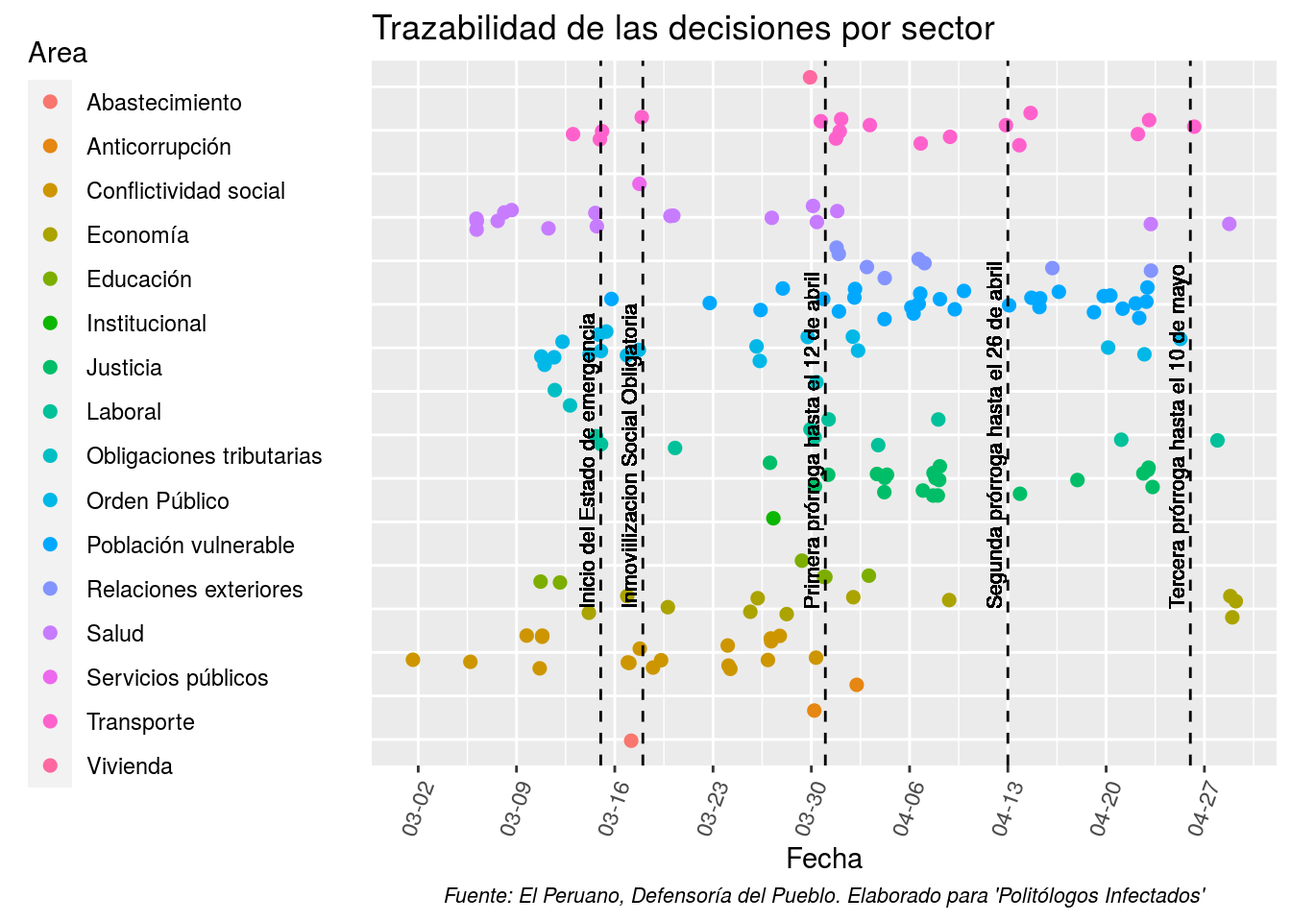
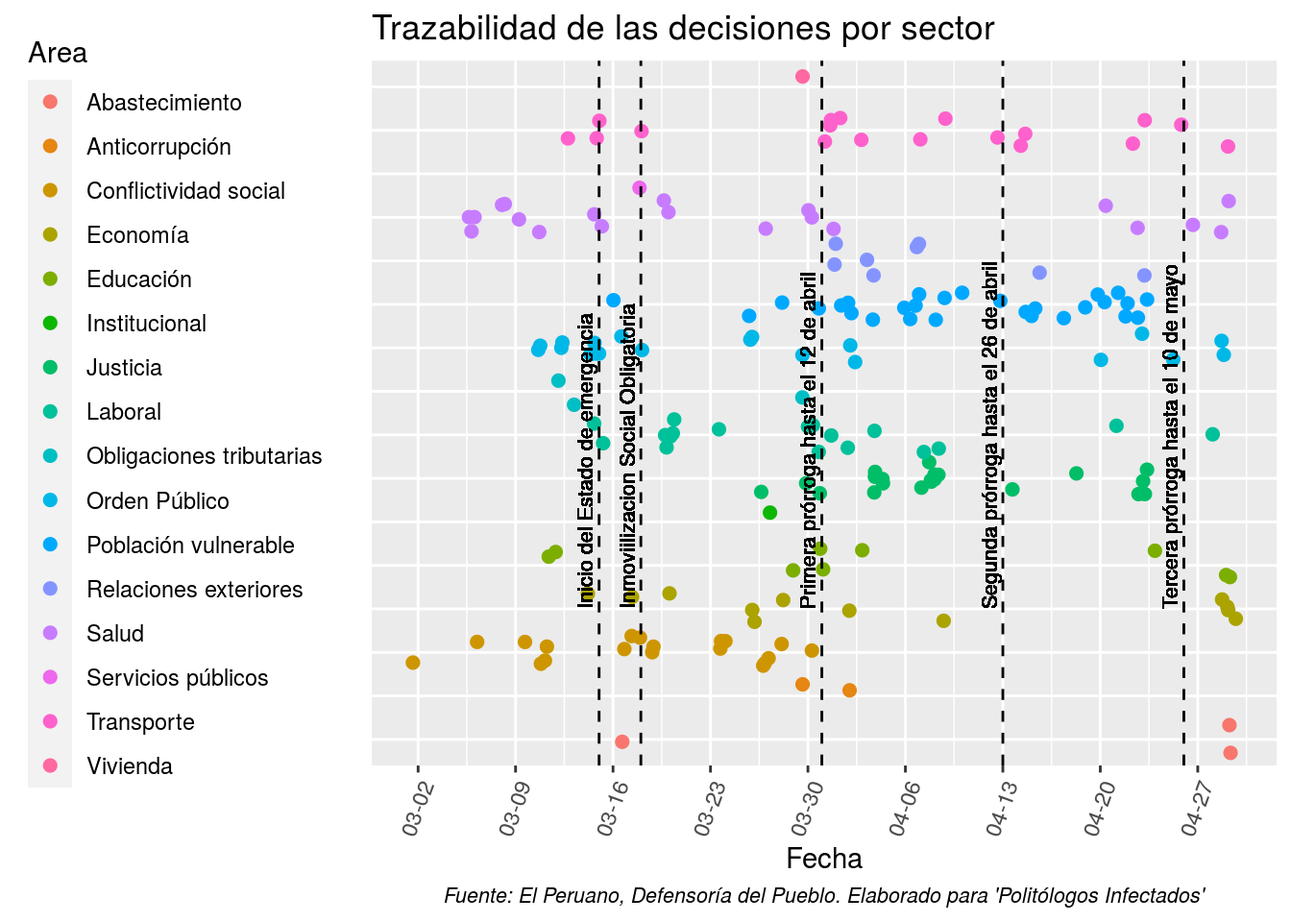
Comentarios al 30 de abril

diff --git a/nacional.html b/nacional.html
@@ -312,7 +312,7 @@ $(document).ready(function () {
 <h3>Introducción</h3>
 <p>
 <div style="text-align:justify">
-<p>El objetivo del seguimiento nacional es <em>registrar la cadena de decisiones políticas adoptadas por el gobierno nacional en el contexto de la Emergencia Nacional a causa del COVID-19</em>.</p>
+<p>El objetivo del seguimiento nacional es registrar la cadena de decisiones políticas adoptadas por el gobierno nacional en el contexto de la Emergencia Nacional a causa del COVID-19.</p>
 Este seguimiento cuenta con <strong>7 secciones</strong>: Trayectoria de las decisiones, instrumentos de politicas, redes de politicas, establecimiento de los problemas publicos, servidores de primera linea, eventos de protestas, pronunciamientos y demandas.
 </div>
 </p>
@@ -354,8 +354,8 @@ La <strong>taxonomía NATO</strong> (acrónimo de las palabras <em>nodality</em>
 <p>
 Entonces, <strong>¿Cuáles han sido los instrumentos de política puestos en práctica por el gobierno para enfrentar la crisis del COVID-19?</strong>
 </p>
-<div id="htmlwidget-484a1724447ebf3c49cb" style="width:100%;height:auto;" class="datatables html-widget"></div>
-<script type="application/json" data-for="htmlwidget-484a1724447ebf3c49cb">{"x":{"filter":"none","data":[["2020-04-29","2020-04-14","2020-04-09","2020-04-02","2020-04-02","2020-04-01","2020-03-30","2020-03-30","2020-03-29","2020-03-28","2020-03-26","2020-03-26","2020-03-26","2020-03-26","2020-03-26","2020-03-23","2020-03-20","2020-03-20","2020-03-20","2020-03-20","2020-03-18","2020-03-18","2020-03-17","2020-03-17","2020-03-17","2020-03-16","2020-03-15","2020-03-15","2020-03-15","2020-03-15","2020-03-15","2020-03-15","2020-03-15","2020-03-15","2020-03-15","2020-03-14","2020-03-14","2020-03-13","2020-03-12","2020-03-12","2020-03-12","2020-03-12","2020-03-11","2020-03-11","2020-03-09","2020-03-08","2020-03-08","2020-03-06","2020-03-06","2020-03-06"],["Economía","Justicia","Economía","Orden Público","Anticorrupción","Salud","Orden Público","Laboral","Educación","Economía","Orden Público","Orden Público","Población vulnerable","Economía","Economía","Población vulnerable","Salud","Salud","Laboral","Economía","Orden Público","Servicios públicos","Orden Público","Economía","Abastecimiento","Población vulnerable","Orden Público","Orden Público","Orden Público","Transporte","Transporte","Laboral","Laboral","Salud","Salud","Economía","Orden Público","Obligaciones tributarias","Educación","Orden Público","Orden Público","Obligaciones tributarias","Orden Público","Orden Público","Salud","Salud","Salud","Salud","Salud","Salud"],["Se habilita el retiro de un máximo de 3000 soles de la AFP","Aplicación de la conversión automática de la pena a arresto domiciliario para personas condenadas por el delito de omisión de asistencia familiar con el objetivo de reducir el hacinamiento en los centro penitenciarios y evitar contagios de COVID-19","Lanzamiento del aplicativo web que permite el seguimiento del presupuesto asignado para mitigar efectos del COVID-19","Se restringe la movilización de hombres y mujeres a días determinados, para reducir la circulación de personas. Mujeres: martes, jueves y sábados. Hombres: lunes, miércoles y viernes","Se dispone el uso obligatorio de la \"Plataforma  para la Transparencia de la Gestión Pública en la Emergencia Sanitaria COVID-19\" por parte de los gobiernos locales","Se apertura la plataforma virtual \"Perú en tus manos\"","Modificación del horario de Inmovilizacion Social Obligatoria desde las 6 pm. hasta las 5 am. a nivel nacional. Excepción de Loreto, Piura, Lambayeque y La Libertad, Tumbes donde se aplicará desde las 4 pm.","Autorización de los 2000 soles de AFP para aquellos trabajadores que no estan en planilla de los ultimos 12 meses.","Aprobación de los criterios para la supervisión de la adaptación de la educación no presencial, con caracter excepcional, en las universidades y escuelas de posgrado","Aprobación de Contrato de Fideicomiso de Administración del Fondo de Apoyo Empresarial a la MYPE","Ampliación de Estado de Emergencia por 13 dias calendarios","Registro de personas infractoras del Estado de Emergencia para derivarse al Ministerio Público","Entrega de canasta basica a familias vulnerables","Suspension del mes de abril a los aportes en AFP","Subsidio para el pago de planilla de empleadores del sector privado orientado a la preservación del empleo","Incorporación de familias independientes al Bono 380 soles","App para registro y pruebas autoaplicadas","Aumento constante de pruebas diarias aplicadas","Se establece la licencia con goce de haber compensable.","Apoyo financiero a la MYPE y financiamiento de acciones ante los efectos del COVID-19","Inmovilizacion Social Obligatorio (de 8 pm. a 5 am.)","Postergacion de pagos de servicios publicos del mes de marzo","Autorización de solicitud de pase de tránsito","Ampliación de la vigencia de los DNI caducos o próximos a caducar, para acceder a bienes y servicios","Prorrogan vigencia de títulos habilitantes en materia de licencias de conducir, servicios de transporte de personas y de carga y mercancía","Bono de 380 soles para familias en situación en situación vulnerable","Declaración de Estado de Emergencia (suspensión de derechos constitucionales)","Suspensión de acceso publico a lugares y toda actividad masiva","Cierre temporal de fronteras durante el tiempo de Estado de Emergencia","Transporte urbano reduce oferta en 50%","Restricción de transporte interprovincial (exceptuando a carga y/o mercancía)","Autorización del trabajo remoto para el sector publico y privado","Subsidio a trabajadores con COVID-19","#quedateencasa #yomequedoencasa","Reporte diarios del avance de las medidas por parte del Presidente","Amplían el alcance de la cobertura del Fondo CRECER para las Pymes","Suspensión temporal de recepción de naves crucero","Reduccion a 0% de tasa arancelaria a la importación de bienes vinculados a la Emergencia Sanitaria","Postergación o suspensión de actividades en los universidades e institutos públicos o privados ","Prohibicion de cualquier espectáculo de más de 300 personas y locales al 50% de aforo","Suspensión de vuelos a Europa y Asia por 30 dias","Aplazamiento de la declaracion de impuestos","Aislamiento domiciliario por catorce (14) días para personas provenientes de España, Italia y China","Postergación o suspensión de actividades en los centros educativos públicos o privados ","Guía para la prevención del COVID-19 en el ámbito laboral","Atención y manejo clinico de casos de COVID-19\n","Declaración Jurada de Salud del Viajero para prevenir el coronavirus (COVID-19)","Campañas de promoción de lavado de manos\n","Inicio de reportes diarios de casos confirmados","Habilitación de la Linea 113"],["Tesoro","Autoridad","Nodalidad","Autoridad","Nodalidad","Nodalidad","Autoridad","Tesoro","Autoridad","Tesoro","Autoridad","Autoridad","Tesoro","Tesoro","Tesoro","Tesoro","Nodalidad","Nodalidad","","Tesoro","Autoridad","Tesoro","Nodalidad","Tesoro","Organización","Tesoro","Autoridad","Autoridad","Autoridad","Autoridad","Autoridad","Autoridad","Tesoro","Nodalidad","Nodalidad","Tesoro","Autoridad","Tesoro","Autoridad","Autoridad","Autoridad","Tesoro","Autoridad","Autoridad","Autoridad","Autoridad","Nodalidad","Nodalidad","Nodalidad","Organización"]],"container":"<table class=\"display\">\n  <thead>\n    <tr>\n      <th>Fecha<\/th>\n      <th>Sector<\/th>\n      <th>Instrumento<\/th>\n      <th>Tipo<\/th>\n    <\/tr>\n  <\/thead>\n<\/table>","options":{"pageLength":10,"lengthMenu":[10,15,20],"language":{"lengthMenu":"Mostrar _MENU_ entradas","info":"Mostrando _START_ al _END_ de _TOTAL_ entradas","search":"Buscar:","paginate":{"previous":"Anterior","next":"Siguiente"}},"order":[],"autoWidth":false,"orderClasses":false}},"evals":[],"jsHooks":[]}</script>
+<div id="htmlwidget-5a60c2b840316c7f21b2" style="width:100%;height:auto;" class="datatables html-widget"></div>
+<script type="application/json" data-for="htmlwidget-5a60c2b840316c7f21b2">{"x":{"filter":"none","data":[["2020-04-30","2020-04-29","2020-04-29","2020-04-14","2020-04-09","2020-04-02","2020-04-02","2020-04-01","2020-03-30","2020-03-30","2020-03-29","2020-03-28","2020-03-26","2020-03-26","2020-03-26","2020-03-26","2020-03-26","2020-03-20","2020-03-20","2020-03-20","2020-03-20","2020-03-18","2020-03-18","2020-03-17","2020-03-17","2020-03-17","2020-03-16","2020-03-15","2020-03-15","2020-03-15","2020-03-15","2020-03-15","2020-03-15","2020-03-15","2020-03-15","2020-03-15","2020-03-14","2020-03-14","2020-03-13","2020-03-12","2020-03-12","2020-03-12","2020-03-12","2020-03-11","2020-03-11","2020-03-09","2020-03-08","2020-03-08","2020-03-06","2020-03-06","2020-03-06"],["Economía","Abastecimiento","Economía","Justicia","Economía","Orden Público","Anticorrupción","Salud","Orden Público","Laboral","Educación","Economía","Orden Público","Orden Público","Población vulnerable","Economía","Economía","Salud","Salud","Laboral","Economía","Orden Público","Servicios públicos","Orden Público","Economía","Abastecimiento","Población vulnerable","Orden Público","Orden Público","Orden Público","Transporte","Transporte","Laboral","Laboral","Salud","Salud","Economía","Orden Público","Obligaciones tributarias","Educación","Orden Público","Orden Público","Obligaciones tributarias","Orden Público","Orden Público","Salud","Salud","Salud","Salud","Salud","Salud"],["Aprobación del retiro del 25% de los fondos de AFP","Cierre por 10 días del Mercado Caqueta para su desinfección y apertura de mercado itinerante en la Av. Zarumilla para el abastecimiento temporal","Se habilita el retiro de un máximo de 3000 soles de la AFP","Aplicación de la conversión automática de la pena a arresto domiciliario para personas condenadas por el delito de omisión de asistencia familiar con el objetivo de reducir el hacinamiento en los centro penitenciarios y evitar contagios de COVID-19","Lanzamiento del aplicativo web que permite el seguimiento del presupuesto asignado para mitigar efectos del COVID-19","Se restringe la movilización de hombres y mujeres a días determinados, para reducir la circulación de personas. Mujeres: martes, jueves y sábados. Hombres: lunes, miércoles y viernes","Se dispone el uso obligatorio de la \"Plataforma  para la Transparencia de la Gestión Pública en la Emergencia Sanitaria COVID-19\" por parte de los gobiernos locales","Se apertura la plataforma virtual \"Perú en tus manos\"","Modificación del horario de Inmovilizacion Social Obligatoria desde las 6 pm. hasta las 5 am. a nivel nacional. Excepción de Loreto, Piura, Lambayeque y La Libertad, Tumbes donde se aplicará desde las 4 pm.","Autorización de los 2000 soles de AFP para aquellos trabajadores que no estan en planilla de los ultimos 12 meses.","Aprobación de los criterios para la supervisión de la adaptación de la educación no presencial, con caracter excepcional, en las universidades y escuelas de posgrado","Aprobación de Contrato de Fideicomiso de Administración del Fondo de Apoyo Empresarial a la MYPE","Ampliación de Estado de Emergencia por 13 dias calendarios","Registro de personas infractoras del Estado de Emergencia para derivarse al Ministerio Público","Entrega de canasta basica a familias vulnerables","Suspension del mes de abril a los aportes en AFP","Subsidio para el pago de planilla de empleadores del sector privado orientado a la preservación del empleo","App para registro y pruebas autoaplicadas","Aumento constante de pruebas diarias aplicadas","Se establece la licencia con goce de haber compensable.","Apoyo financiero a la MYPE y financiamiento de acciones ante los efectos del COVID-19","Inmovilizacion Social Obligatorio (de 8 pm. a 5 am.)","Postergacion de pagos de servicios publicos del mes de marzo","Autorización de solicitud de pase de tránsito","Ampliación de la vigencia de los DNI caducos o próximos a caducar, para acceder a bienes y servicios","Prorrogan vigencia de títulos habilitantes en materia de licencias de conducir, servicios de transporte de personas y de carga y mercancía","Bono de 380 soles para familias en situación en situación vulnerable","Declaración de Estado de Emergencia (suspensión de derechos constitucionales)","Suspensión de acceso publico a lugares y toda actividad masiva","Cierre temporal de fronteras durante el tiempo de Estado de Emergencia","Transporte urbano reduce oferta en 50%","Restricción de transporte interprovincial (exceptuando a carga y/o mercancía)","Autorización del trabajo remoto para el sector publico y privado","Subsidio a trabajadores con COVID-19","#quedateencasa #yomequedoencasa","Reporte diarios del avance de las medidas por parte del Presidente","Amplían el alcance de la cobertura del Fondo CRECER para las Pymes","Suspensión temporal de recepción de naves crucero","Reduccion a 0% de tasa arancelaria a la importación de bienes vinculados a la Emergencia Sanitaria","Postergación o suspensión de actividades en los universidades e institutos públicos o privados ","Prohibicion de cualquier espectáculo de más de 300 personas y locales al 50% de aforo","Suspensión de vuelos a Europa y Asia por 30 dias","Aplazamiento de la declaracion de impuestos","Aislamiento domiciliario por catorce (14) días para personas provenientes de España, Italia y China","Postergación o suspensión de actividades en los centros educativos públicos o privados ","Guía para la prevención del COVID-19 en el ámbito laboral","Atención y manejo clinico de casos de COVID-19\n","Declaración Jurada de Salud del Viajero para prevenir el coronavirus (COVID-19)","Campañas de promoción de lavado de manos\n","Inicio de reportes diarios de casos confirmados","Habilitación de la Linea 113"],["Tesoro","Autoridad","Tesoro","Autoridad","Nodalidad","Autoridad","Nodalidad","Nodalidad","Autoridad","Tesoro","Autoridad","Tesoro","Autoridad","Autoridad","Tesoro","Tesoro","Tesoro","Nodalidad","Nodalidad","","Tesoro","Autoridad","Tesoro","Nodalidad","Tesoro","Organización","Tesoro","Autoridad","Autoridad","Autoridad","Autoridad","Autoridad","Autoridad","Tesoro","Nodalidad","Nodalidad","Tesoro","Autoridad","Tesoro","Autoridad","Autoridad","Autoridad","Tesoro","Autoridad","Autoridad","Autoridad","Autoridad","Nodalidad","Nodalidad","Nodalidad","Organización"]],"container":"<table class=\"display\">\n  <thead>\n    <tr>\n      <th>Fecha<\/th>\n      <th>Sector<\/th>\n      <th>Instrumento<\/th>\n      <th>Tipo<\/th>\n    <\/tr>\n  <\/thead>\n<\/table>","options":{"pageLength":10,"lengthMenu":[10,15,20],"language":{"lengthMenu":"Mostrar _MENU_ entradas","info":"Mostrando _START_ al _END_ de _TOTAL_ entradas","search":"Buscar:","paginate":{"previous":"Anterior","next":"Siguiente"}},"order":[],"autoWidth":false,"orderClasses":false}},"evals":[],"jsHooks":[]}</script>
 </div>
 <div id="redes-de-subsistemas-politicos" class="section level3">
 <h3>2.3. Redes de subsistemas politicos</h3>
@@ -364,8 +364,14 @@ Entonces, <strong>¿Cuáles han sido los instrumentos de política puestos en pr
 El análisis de redes políticas permite visualizar y comprender las interacciones entre los actores involucrados durante un proceso de decisiones de política para hacer frente al problema público. Una red de política (policy network) es un grupo o complejo de organizaciones conectadas entre sí por dependencias de recursos y distinguidas de otros grupos o complejos por rupturas en la estructura de las dependencias de recursos.
 </div>
 </p>
+<p>Para ver la leyenda de los tipos de actores por colores de los nodos <a href = "casos_files/figure-html/actores.png"> aquí </a>. El tamaño de los nodos es construida por el número de conexiones con la finalidad de representar sus vínculos en la red.</p>
 <p>
 <img src="casos_files/figure-html/unnamed.png" /><!-- -->
+</p>
+<p>
+<div style="text-align:right">
+Red actualizada al 26/03/2020
+</div>
 </p>
 </div>
 <div id="agendación-de-los-problemas-públicos" class="section level3">
@@ -377,8 +383,8 @@ Asimismo, debemos tener en cuenta la teoría de las corrientes múltiples, propu
 </div>
 </p>
 </div>
-<div id="situación-de-los-servidores-de-primera-línea" class="section level3">
-<h3>2.5. Situación de los servidores de primera línea</h3>
+<div id="situación-de-los-servidores-en-primera-línea" class="section level3">
+<h3>2.5. Situación de los servidores en primera línea</h3>
 <p>
 <div style="text-align:justify">
 En este contexto de Estado de Emergencia, las princpales actividades aún vigentes han sido las relacionadas a salud, seguridad, abastecimiento, residuos sólidos, bajo ciertos protocolos que garanticen su resgardo frente al contagio del coronavirus. No obstante, la importancia de estos servidores de primera linea (también denominados <em>Street-level bureaucracy</em>) (Lipsky, 1989) radica en que son aquellos que estan implementando las principales medidas en este contexto de Estado de Emergencia, y ello puede verse afectado en caso se presenten fallos en su resgardo.
@@ -390,22 +396,28 @@ En este contexto de Estado de Emergencia, las princpales actividades aún vigent
 <img src="casos_files/figure-html/medicos.jpg" /width=360 height=480><!-- -->
 </p>
 </div>
-</div>
-<div id="conflictos-sociales-en-torno-al-covid-19" class="section level3">
-<h3>2.6. Conflictos sociales en torno al COVID-19</h3>
-<p>Según el reporte de conflictos mensual emitido por la Defensoria del Pueblo, para el mes de marzo se registraron <strong>18 acciones de protesta</strong> vinculadas a la situacion de emergencia por causa del COVID-19.</p>
+<div id="policias" class="section level4">
+<h4>Policias</h4>
 <blockquote>
-<p>Marzo</p>
+<p>Max Iglesias (Comandante General de la PNP): “Alrededor de mas de dos mil policías contagiados y 24 policias que lamentablemente han fallecido.” (<em>29 de abril del 2020</em>)</p>
 </blockquote>
-<div id="htmlwidget-a0ab667a1f3fff957445" style="width:100%;height:auto;" class="datatables html-widget"></div>
-<script type="application/json" data-for="htmlwidget-a0ab667a1f3fff957445">{"x":{"filter":"none","data":[["2020-03-30","2020-03-28","2020-03-27","2020-03-27","2020-03-24","2020-03-24","2020-03-24","2020-03-19","2020-03-19","2020-03-18","2020-03-17","2020-03-17","2020-03-11","2020-03-11","2020-03-11","2020-03-10","2020-03-06","2020-03-02"],["Presos del penal de Yanamilla\n","Población del sector calle\nDos ","Médicos del Hospital Honorio Delgado Espinoza","Población del sector de Chicago de Trujillo","Transportistas de Carga Pesada","Asociación de\nTransportes de Carga\nPeligrosa\n","Transportistas de Carga\nPesada","Poblacion de Lima","Ciudadanos varados en\nlas afueras del\naeropuerto Jorge Chávez","Médicos del Hospital César Garayar García","Trabajadores del Programa Surco Verde","Población del asentamiento humano Complejo Habitaciona","Población del distrito de\nVíctor Larco","Personal de salud del Hospital Regional de Áncash - Eleazar Gusmán Barrón","Médicos, enfermeras y trabajadores del Hospital Carlos Alcántara","Médicos del Hospital Goyoneche","Médicos y personal del Hospital Uldarico Roca Fernández","Población de Nuevo Chimbote"],["Ampliación hasta el próximo 31 de octubre de la vigencia de la Habilitación del conductor y de la Tarjeta Única de Circulación (TUC).","Rechazan que el recinto deportivo Campeones del 36 sea considerado como albergue para pacientes positivos de coronavirus.","Rechazan la decisión de utilizar el área sensible como zona de aislamiento temporal para pacientes graves por coronavirus","Rechazan la instalación de un hospital itinerante para pacientes de coronavirus en el complejo deportivo Chan Chan.\n","Exigen se anule el cobro de peajes en pleno Estado de Emergencia Nacional","Denuncian el funcionamiento de la empresa minera Lincuna en pleno Estado de Emergencia Nacional","Exigen se anule el cobro de peajes en pleno Estado de Emergencia Nacional","Exigen a las autoridades ayuda y que se disponga de un vuelo humanitario a la ciudad de Lima.","Exigen a las autoridades ayuda y que se disponga de vuelos humanitarios para los destinos de Arequipa, Piura, Cusco y Puerto Maldonado.","Exigen implementos necesarios y suficientes para poder atender los casos de pacientes con coronavirus.","Denuncian que pese a la prohibición de movimiento por el Estado de Emergencia a causa del coronavirus, la Municipalidad de Surco les obliga a trabajar con normalidad.","Exigen recibir el bono de S/. 380 anunciado por el Gobierno Nacional en el marco del Estado de Emergencia Nacional por el coronavirus.","Rechazan que el Centro Preventorio de EsSalud sea considerado para la atención de presuntos portadores de\ncoronavirus.","Exigen mejores condiciones e implementos como mascarillas, botas, mandiles; que ayuden a enfrentar posibles casos de coronavirus.","Denuncian la improvisación de Essalud para la atención de pacientes infectados con el nuevo coronavirus. Asimismo, exigen mejores condiciones e implementos como mascarillas, botas, mandiles, entre otros","Exigen mejores condiciones e implementos como mascarillas, botas, mandiles; que ayuden a enfrentar\nposibles casos de coronavirus.\n","Rechazan la designación del hospital Uldarico Roca Fernández como uno de los centros médicos para atender\ncasos de coronavirus en Perú.","Exigen el cierre temporal del puerto de Chimbote para evitar el ingreso de posibles casos del nuevo coronavirus\nen la región."],["Plantón","Plantón","Plantón","Plantón","Concentración","Concentración","Concentración","Plantón","Concentración","Plantón","Paralización de actividades\n","Concentración","Concentración","Plantón","Plantón","Plantón","Plantón","Concentración"]],"container":"<table class=\"display\">\n  <thead>\n    <tr>\n      <th>Fecha<\/th>\n      <th>Actores en protesta<\/th>\n      <th>Contenido<\/th>\n      <th>Accion colectiva<\/th>\n    <\/tr>\n  <\/thead>\n<\/table>","options":{"order":[],"autoWidth":false,"orderClasses":false}},"evals":[],"jsHooks":[]}</script>
+</div>
+</div>
+<div id="conflictos-sociales-vinculados-al-estado-de-emergencia" class="section level3">
+<h3>2.6. Conflictos sociales vinculados al Estado de Emergencia</h3>
+<p>Según el reporte de conflictos mensual emitido por la Defensoria del Pueblo, para el mes de marzo se registraron <strong>18 acciones de protesta</strong> vinculadas a la situación de emergencia por causa del COVID-19. En el mes de abril estas manifestaciones se han venido incrementando diariamente.</p>
+<div id="htmlwidget-6030cfca7db49e202fce" style="width:100%;height:auto;" class="datatables html-widget"></div>
+<script type="application/json" data-for="htmlwidget-6030cfca7db49e202fce">{"x":{"filter":"none","data":[["2020-04-29","2020-04-29","2020-04-29","2020-04-29","2020-04-27","2020-04-24","2020-04-20","2020-03-30","2020-03-28","2020-03-27","2020-03-27","2020-03-24","2020-03-24","2020-03-24","2020-03-19","2020-03-19","2020-03-18","2020-03-17","2020-03-17","2020-03-11","2020-03-11","2020-03-11","2020-03-10","2020-03-06","2020-03-02"],["Enfermeras del Hospital Militar","Padres de colegios privados","Ciudadanos loretanos","Padres de colegios privados en Juliaca","Técnicos y enfermeros del hospital Hipólito Unanue","Padres del Colegio Technology School","Personal de salud del Hospital Maria Auxiliadora","Presos del penal de Yanamilla\n","Población del sector calle\nDos ","Médicos del Hospital Honorio Delgado Espinoza","Población del sector de Chicago de Trujillo","Transportistas de Carga Pesada","Asociación de\nTransportes de Carga\nPeligrosa\n","Transportistas de Carga\nPesada","Poblacion de Lima","Ciudadanos varados en\nlas afueras del\naeropuerto Jorge Chávez","Médicos del Hospital César Garayar García","Trabajadores del Programa Surco Verde","Población del asentamiento humano Complejo Habitaciona","Población del distrito de\nVíctor Larco","Personal de salud del Hospital Regional de Áncash - Eleazar Gusmán Barrón","Médicos, enfermeras y trabajadores del Hospital Carlos Alcántara","Médicos del Hospital Goyoneche","Médicos y personal del Hospital Uldarico Roca Fernández","Población de Nuevo Chimbote"],["Las enfermeras del Hospital Militar se vieron obligadas a protestar fuera de dicho nosocomio en Lima, debido a que no se les entrega protección adecuada para proteger su vida y salud del coronavirus COVID-19","Padres protestan en las afueras del colegio Trilce de Chorrillos para exigir reducción del 50% de la pensión","Loretanos bloquearon la Av. Faucett exigiendo traslado humanitario","Juliaca: padres protestan para lograr rebaja de pensiones en colegios privados","El personal pidió que se cumpla con sus pagos y se les asignen los implementos necesarios para que continúen luchando contra el COVID-19.","Padres protestan en los exteriores de colegios particulares por cobro de pensiones","Un grupo de profesionales de la salud, entre médicos, enfermeras y trabajadores, del hospital María Auxiliadora realizó una protesta frente a dicha institución, en Villa María del Triunfo, para reclamar por la falta de equipos de protección personal (EPP). ","Ampliación hasta el próximo 31 de octubre de la vigencia de la Habilitación del conductor y de la Tarjeta Única de Circulación (TUC).","Rechazan que el recinto deportivo Campeones del 36 sea considerado como albergue para pacientes positivos de coronavirus.","Rechazan la decisión de utilizar el área sensible como zona de aislamiento temporal para pacientes graves por coronavirus","Rechazan la instalación de un hospital itinerante para pacientes de coronavirus en el complejo deportivo Chan Chan.\n","Exigen se anule el cobro de peajes en pleno Estado de Emergencia Nacional","Denuncian el funcionamiento de la empresa minera Lincuna en pleno Estado de Emergencia Nacional","Exigen se anule el cobro de peajes en pleno Estado de Emergencia Nacional","Exigen a las autoridades ayuda y que se disponga de un vuelo humanitario a la ciudad de Lima.","Exigen a las autoridades ayuda y que se disponga de vuelos humanitarios para los destinos de Arequipa, Piura, Cusco y Puerto Maldonado.","Exigen implementos necesarios y suficientes para poder atender los casos de pacientes con coronavirus.","Denuncian que pese a la prohibición de movimiento por el Estado de Emergencia a causa del coronavirus, la Municipalidad de Surco les obliga a trabajar con normalidad.","Exigen recibir el bono de S/. 380 anunciado por el Gobierno Nacional en el marco del Estado de Emergencia Nacional por el coronavirus.","Rechazan que el Centro Preventorio de EsSalud sea considerado para la atención de presuntos portadores de\ncoronavirus.","Exigen mejores condiciones e implementos como mascarillas, botas, mandiles; que ayuden a enfrentar posibles casos de coronavirus.","Denuncian la improvisación de Essalud para la atención de pacientes infectados con el nuevo coronavirus. Asimismo, exigen mejores condiciones e implementos como mascarillas, botas, mandiles, entre otros","Exigen mejores condiciones e implementos como mascarillas, botas, mandiles; que ayuden a enfrentar\nposibles casos de coronavirus.\n","Rechazan la designación del hospital Uldarico Roca Fernández como uno de los centros médicos para atender\ncasos de coronavirus en Perú.","Exigen el cierre temporal del puerto de Chimbote para evitar el ingreso de posibles casos del nuevo coronavirus\nen la región."],["Plantón","Plantón","Bloqueo de vía","Plantón","Plantón","Plantón","Plantón","Plantón","Plantón","Plantón","Plantón","Concentración","Concentración","Concentración","Plantón","Concentración","Plantón","Paralización de actividades\n","Concentración","Concentración","Plantón","Plantón","Plantón","Plantón","Concentración"]],"container":"<table class=\"display\">\n  <thead>\n    <tr>\n      <th>Fecha<\/th>\n      <th>Actores en protesta<\/th>\n      <th>Contenido<\/th>\n      <th>Accion colectiva<\/th>\n    <\/tr>\n  <\/thead>\n<\/table>","options":{"order":[],"autoWidth":false,"orderClasses":false}},"evals":[],"jsHooks":[]}</script>
 </div>
 <div id="noticias-demandas-y-pronunciamientos" class="section level3">
 <h3>2.7. Noticias, demandas y pronunciamientos</h3>
 <p>Este apartado fue construido a partir de la información publicada en plataformas web y que fueron recopiladas en el siguiente grupo de facebook: <a href="https://www.facebook.com/groups/254907618858716/">COVID-19 PERÚ</a> creado por Carlos Andres Guevara.</p>
 <p>28/04</p>
 <blockquote>
-<p>SALUD | Mayoría de casos de coronavirus en Puno son policías y personal de Salud. De los 66 casos confirmados de coronavirus en Puno, la mayoría son miembros de la Policía, el INPE y trabajadores de salud<a href = "https://larepublica.pe/sociedad/2020/04/27/mayoria-de-casos-de-coronavirus-en-puno-son-policias-y-personal-de-salud-lrsd/De/?fbclid=IwAR3czuENKOJJ3iGrPiB14gCpeWYVXymb-AwjUwHs2fBmtaoXnZ2jIpJrpas"> Aquí </a></p>
+<p>SALUD | Mayoría de casos de coronavirus en Puno son policías y personal de Salud. De los 66 casos confirmados de coronavirus en Puno, la mayoría son miembros de la Policía, el INPE y trabajadores de salud <a href = "https://larepublica.pe/sociedad/2020/04/27/mayoria-de-casos-de-coronavirus-en-puno-son-policias-y-personal-de-salud-lrsd/De/?fbclid=IwAR3czuENKOJJ3iGrPiB14gCpeWYVXymb-AwjUwHs2fBmtaoXnZ2jIpJrpas"> Aquí </a></p>
+</blockquote>
+<blockquote>
+<p>EDUCACIÓN | Alrededor de 4 mil docentes que laboraban en colegios privados de la región Arequipa se han quedado desempleados, según Rustbel Begazo Salazar, presidente de la Asociación de Instituciones Educativas Privadas de la región Arequipa (Asiepra) <a href = "https://larepublica.pe/sociedad/2020/04/28/cuarentena-4-mil-profesores-se-quedaron-sin-trabajo-en-arequipa-coronavirus-lrsd/"> Aquí </a></p>
 </blockquote>
 <p>27/04</p>
 <blockquote>

diff --git a/subnacional.html b/subnacional.html
@@ -312,8 +312,8 @@ $(document).ready(function () {
 <h3>3.1. Gobiernos regionales</h3>
 <div id="datos-sobre-casos-y-muestras-realizadas" class="section level4">
 <h4>3.1.1. Datos sobre casos y muestras realizadas</h4>
-<div id="htmlwidget-f43494c3dc844724c57d" style="width:100%;height:auto;" class="datatables html-widget"></div>
-<script type="application/json" data-for="htmlwidget-f43494c3dc844724c57d">{"x":{"filter":"none","data":[["Amazonas","Áncash","Apurímac","Arequipa","Ayacucho","Cajamarca","Callao","Cusco","Huancavelica","Huánuco","Ica","Junín","La Libertad","Lambayeque","Lima Metropolitana","Lima Región","Loreto","Madre de Dios","Moquegua","Pasco","Piura","Puno","San Martín","Tacna","Tumbes","Ucayali"],[2052,8574,2612,10173,2058,3784,12652,3746,1430,3640,4397,4825,7456,8873,174240,2559,5785,5119,3136,2127,8896,3790,4587,4353,2685,2713],[119,630,66,529,80,162,3101,203,75,169,401,373,615,1956,21337,517,1003,105,111,95,1080,89,205,94,290,526],["491,25","721,19","643,73","735,72","334,00","282,17","1272,20","310,74","411,35","504,82","516,83","387,23","419,33","741,11","1822,16","281,08","654,77","3628,69","1793,40","837,19","479,10","323,19","563,94","1321,77","1194,06","546,47"],["28,49","52,99","16,27","38,26","12,98","12,08","311,82","16,84","21,57","23,44","47,13","29,93","34,59","163,37","223,14","56,79","113,52","74,43","63,48","37,39","58,16","7,59","25,20","28,54","128,97","105,95"],["5,80%","7,35%","2,53%","5,20%","3,89%","4,28%","24,51%","5,42%","5,24%","4,64%","9,12%","7,73%","8,25%","22,04%","12,25%","20,20%","17,34%","2,05%","3,54%","4,47%","12,14%","2,35%","4,47%","2,16%","10,80%","19,39%"]],"container":"<table class=\"display\">\n  <thead>\n    <tr>\n      <th>Región<\/th>\n      <th>Muestras realizadas<\/th>\n      <th>Positivos<\/th>\n      <th>Muestras x 100 mil hab.<\/th>\n      <th>Positivos x 100 mil hab.<\/th>\n      <th>Porcentaje de positivos<\/th>\n    <\/tr>\n  <\/thead>\n<\/table>","options":{"pageLength":10,"lengthMenu":[10,15,20],"language":{"lengthMenu":"Mostrar _MENU_ entradas","info":"Mostrando _START_ al _END_ de _TOTAL_ entradas","search":"Buscar:","paginate":{"previous":"Anterior","next":"Siguiente"}},"columnDefs":[{"className":"dt-right","targets":[1,2]}],"order":[],"autoWidth":false,"orderClasses":false}},"evals":[],"jsHooks":[]}</script>
+<div id="htmlwidget-6ec68b0c8862bad252d6" style="width:100%;height:auto;" class="datatables html-widget"></div>
+<script type="application/json" data-for="htmlwidget-6ec68b0c8862bad252d6">{"x":{"filter":"none","data":[["Amazonas","Áncash","Apurímac","Arequipa","Ayacucho","Cajamarca","Callao","Cusco","Huancavelica","Huánuco","Ica","Junín","La Libertad","Lambayeque","Lima Metropolitana","Lima Región","Loreto","Madre de Dios","Moquegua","Pasco","Piura","Puno","San Martín","Tacna","Tumbes","Ucayali"],[2052,8574,2612,10173,2058,3784,12652,3746,1430,3640,4397,4825,7456,8873,174240,2559,5785,5119,3136,2127,8896,3790,4587,4353,2685,2713],[119,630,66,529,80,162,3101,203,75,169,401,373,615,1956,21337,517,1003,105,111,95,1080,89,205,94,290,526],["491,25","721,19","643,73","735,72","334,00","282,17","1272,20","310,74","411,35","504,82","516,83","387,23","419,33","741,11","1822,16","281,08","654,77","3628,69","1793,40","837,19","479,10","323,19","563,94","1321,77","1194,06","546,47"],["28,49","52,99","16,27","38,26","12,98","12,08","311,82","16,84","21,57","23,44","47,13","29,93","34,59","163,37","223,14","56,79","113,52","74,43","63,48","37,39","58,16","7,59","25,20","28,54","128,97","105,95"],["5,80%","7,35%","2,53%","5,20%","3,89%","4,28%","24,51%","5,42%","5,24%","4,64%","9,12%","7,73%","8,25%","22,04%","12,25%","20,20%","17,34%","2,05%","3,54%","4,47%","12,14%","2,35%","4,47%","2,16%","10,80%","19,39%"]],"container":"<table class=\"display\">\n  <thead>\n    <tr>\n      <th>Región<\/th>\n      <th>Muestras realizadas<\/th>\n      <th>Positivos<\/th>\n      <th>Muestras x 100 mil hab.<\/th>\n      <th>Positivos x 100 mil hab.<\/th>\n      <th>Porcentaje de positivos<\/th>\n    <\/tr>\n  <\/thead>\n<\/table>","options":{"pageLength":10,"lengthMenu":[10,15,20],"language":{"lengthMenu":"Mostrar _MENU_ entradas","info":"Mostrando _START_ al _END_ de _TOTAL_ entradas","search":"Buscar:","paginate":{"previous":"Anterior","next":"Siguiente"}},"columnDefs":[{"className":"dt-right","targets":[1,2]}],"order":[],"autoWidth":false,"orderClasses":false}},"evals":[],"jsHooks":[]}</script>
 <p>
 <div style="text-align:right">
 Datos actualizados al 29/04/2020. Fuente: Sala Situacional-MINSA

diff --git a/casos.html b/casos.html
@@ -321,26 +321,26 @@ En ese sentido, esta sección tiene por objetivo responder a la pregunta <strong
 </div>
 <div id="evolución-de-los-casos-positivos-detectados" class="section level3">
 <h3>1.1. Evolución de los casos positivos detectados</h3>
-<p><img src="casos_files/figure-html/unnamed-chunk-10-1.png" width="672" /></p>
+<p><img src="casos_files/figure-html/unnamed-chunk-3-1.png" width="672" /></p>
 <p>
 <img src="casos_files/figure-html/filef7df9c438.gif" /><!-- -->
 </p>
 </div>
 <div id="nuevos-casos-positivos-detectados-por-día" class="section level3">
 <h3>1.2. Nuevos casos positivos detectados por día</h3>
-<p><img src="casos_files/figure-html/unnamed-chunk-11-1.png" width="672" /></p>
+<p><img src="casos_files/figure-html/unnamed-chunk-4-1.png" width="672" /></p>
 </div>
 <div id="evolución-del-total-de-fallecimientos" class="section level3">
 <h3>1.3. Evolución del total de fallecimientos</h3>
-<p><img src="casos_files/figure-html/unnamed-chunk-12-1.png" width="672" /></p>
+<p><img src="casos_files/figure-html/unnamed-chunk-5-1.png" width="672" /></p>
 </div>
 <div id="nuevos-fallecimientos-por-día" class="section level3">
 <h3>1.4. Nuevos fallecimientos por día</h3>
-<p><img src="casos_files/figure-html/unnamed-chunk-14-1.png" width="672" /></p>
+<p><img src="casos_files/figure-html/unnamed-chunk-7-1.png" width="672" /></p>
 </div>
 <div id="evolución-de-nuevos-de-hospitalizados-por-dia" class="section level3">
 <h3>1.5. Evolución de nuevos de hospitalizados por dia</h3>
-<p><img src="casos_files/figure-html/unnamed-chunk-15-1.png" width="672" /></p>
+<p><img src="casos_files/figure-html/unnamed-chunk-8-1.png" width="672" /></p>
 </div>
 <div id="evolución-de-personas-en-uci" class="section level3">
 <h3>1.6. Evolución de personas en UCI</h3>
@@ -348,8 +348,8 @@ En ese sentido, esta sección tiene por objetivo responder a la pregunta <strong
 </div>
 <div id="evolución-en-la-disponibilidad-de-camas-uci" class="section level3">
 <h3>1.7. Evolución en la disponibilidad de camas UCI</h3>
-<div id="htmlwidget-ee01050de741ffdbe317" style="width:100%;height:auto;" class="datatables html-widget"></div>
-<script type="application/json" data-for="htmlwidget-ee01050de741ffdbe317">{"x":{"filter":"none","data":[["2020-04-21","2020-04-22","2020-04-23","2020-04-24","2020-04-25","2020-04-26","2020-04-27","2020-04-28","2020-04-29"],[525,525,652,652,719,726,773,777,810],[380,396,467,505,545,554,598,600,623],[145,129,185,147,174,172,175,177,187]],"container":"<table class=\"display\">\n  <thead>\n    <tr>\n      <th>Fecha<\/th>\n      <th>Total de camas UCI<\/th>\n      <th>Camas UCI ocupadas<\/th>\n      <th>Camas UCI disponibles<\/th>\n    <\/tr>\n  <\/thead>\n<\/table>","options":{"columnDefs":[{"className":"dt-right","targets":[1,2,3]}],"order":[],"autoWidth":false,"orderClasses":false}},"evals":[],"jsHooks":[]}</script>
+<div id="htmlwidget-daf93a9f073471e44154" style="width:100%;height:auto;" class="datatables html-widget"></div>
+<script type="application/json" data-for="htmlwidget-daf93a9f073471e44154">{"x":{"filter":"none","data":[["2020-04-21","2020-04-22","2020-04-23","2020-04-24","2020-04-25","2020-04-26","2020-04-27","2020-04-28","2020-04-29"],[525,525,652,652,719,726,773,777,810],[380,396,467,505,545,554,598,600,623],[145,129,185,147,174,172,175,177,187]],"container":"<table class=\"display\">\n  <thead>\n    <tr>\n      <th>Fecha<\/th>\n      <th>Total de camas UCI<\/th>\n      <th>Camas UCI ocupadas<\/th>\n      <th>Camas UCI disponibles<\/th>\n    <\/tr>\n  <\/thead>\n<\/table>","options":{"columnDefs":[{"className":"dt-right","targets":[1,2,3]}],"order":[],"autoWidth":false,"orderClasses":false}},"evals":[],"jsHooks":[]}</script>
 </div>
 <div id="evolución-de-los-casos-positivos-activos" class="section level3">
 <h3>1.8. Evolución de los casos positivos activos</h3>
@@ -358,7 +358,7 @@ En ese sentido, esta sección tiene por objetivo responder a la pregunta <strong
 El número de casos activos es registrada descontando de los casos confirmados al número de muertos y los pacientes recuperados. Esta cifra ha variado en la tendencia por un aumento considerable en el número de recuperados.
 </div>
 </p>
-<p><img src="casos_files/figure-html/unnamed-chunk-17-1.png" width="672" /></p>
+<p><img src="casos_files/figure-html/unnamed-chunk-10-1.png" width="672" /></p>
 <p>
 <div style="text-align:right">
 Datos actualizados al 29/04/2020
